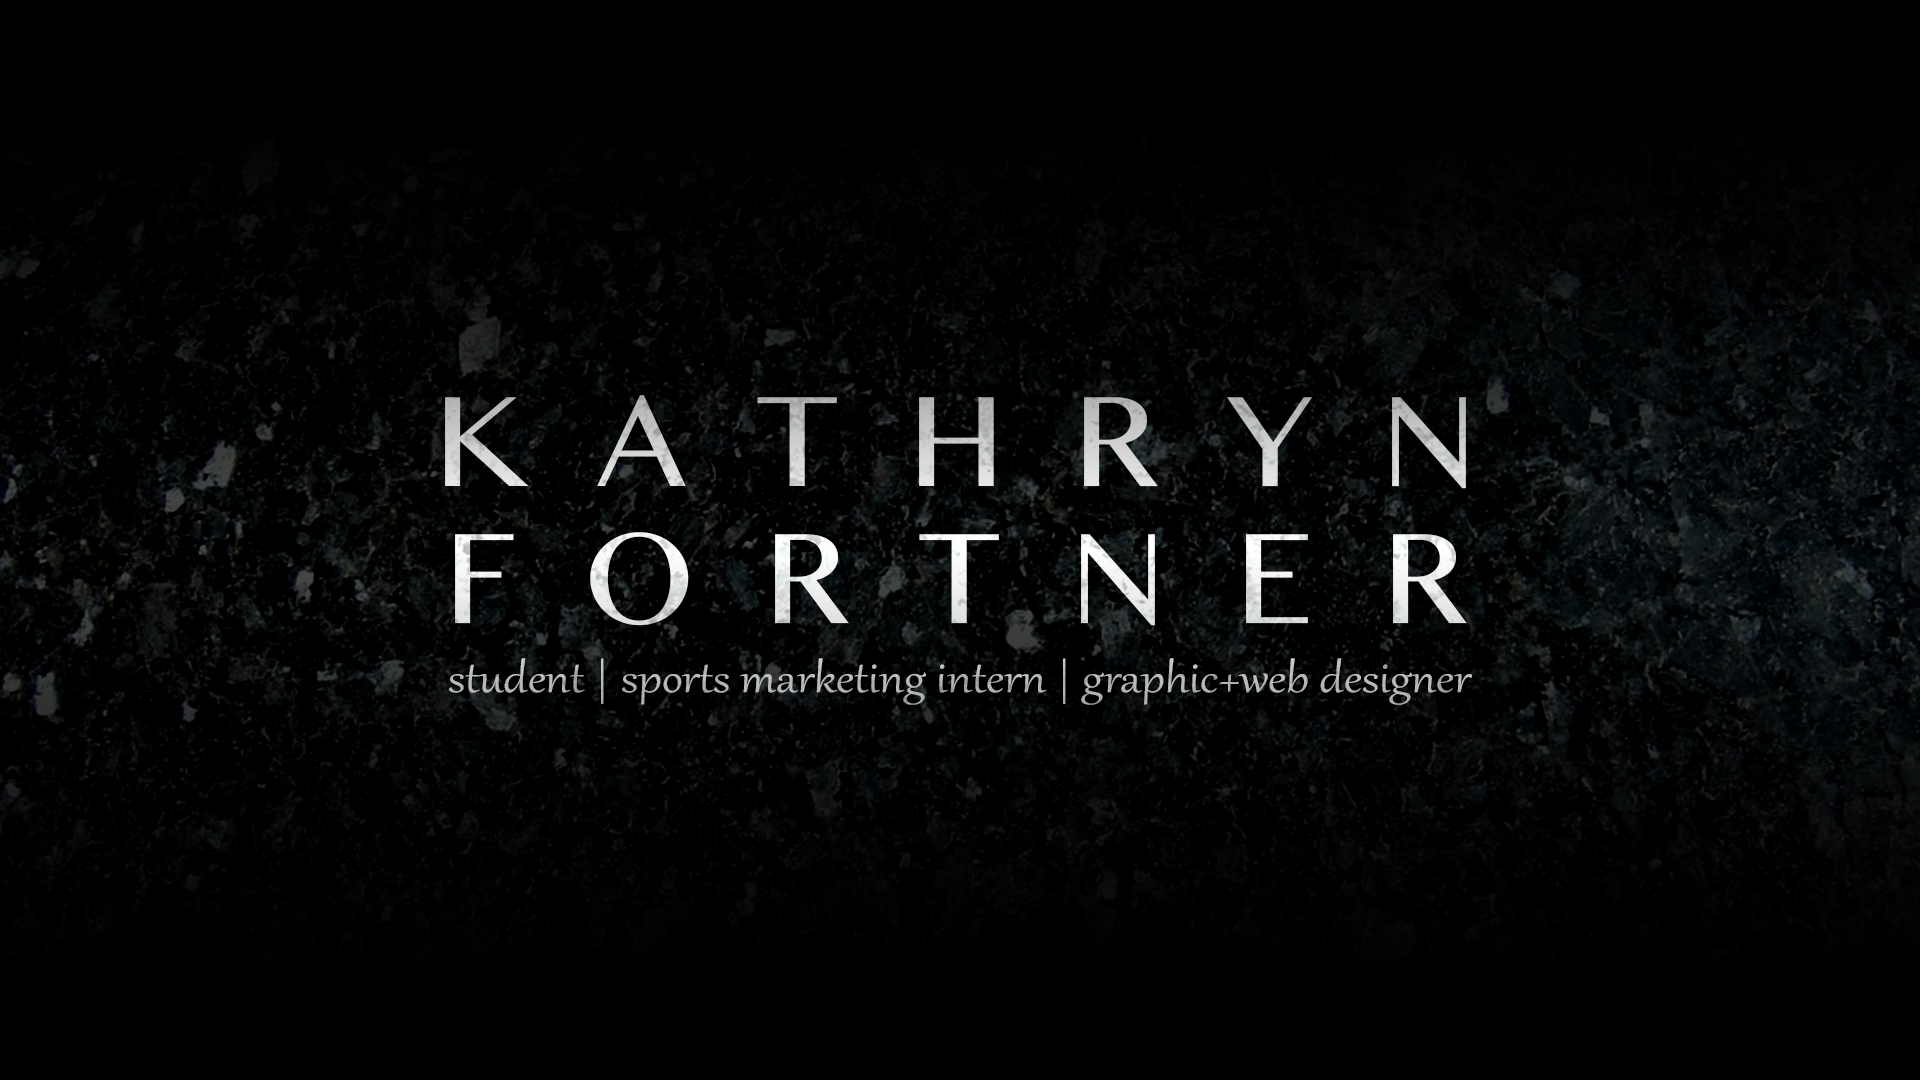
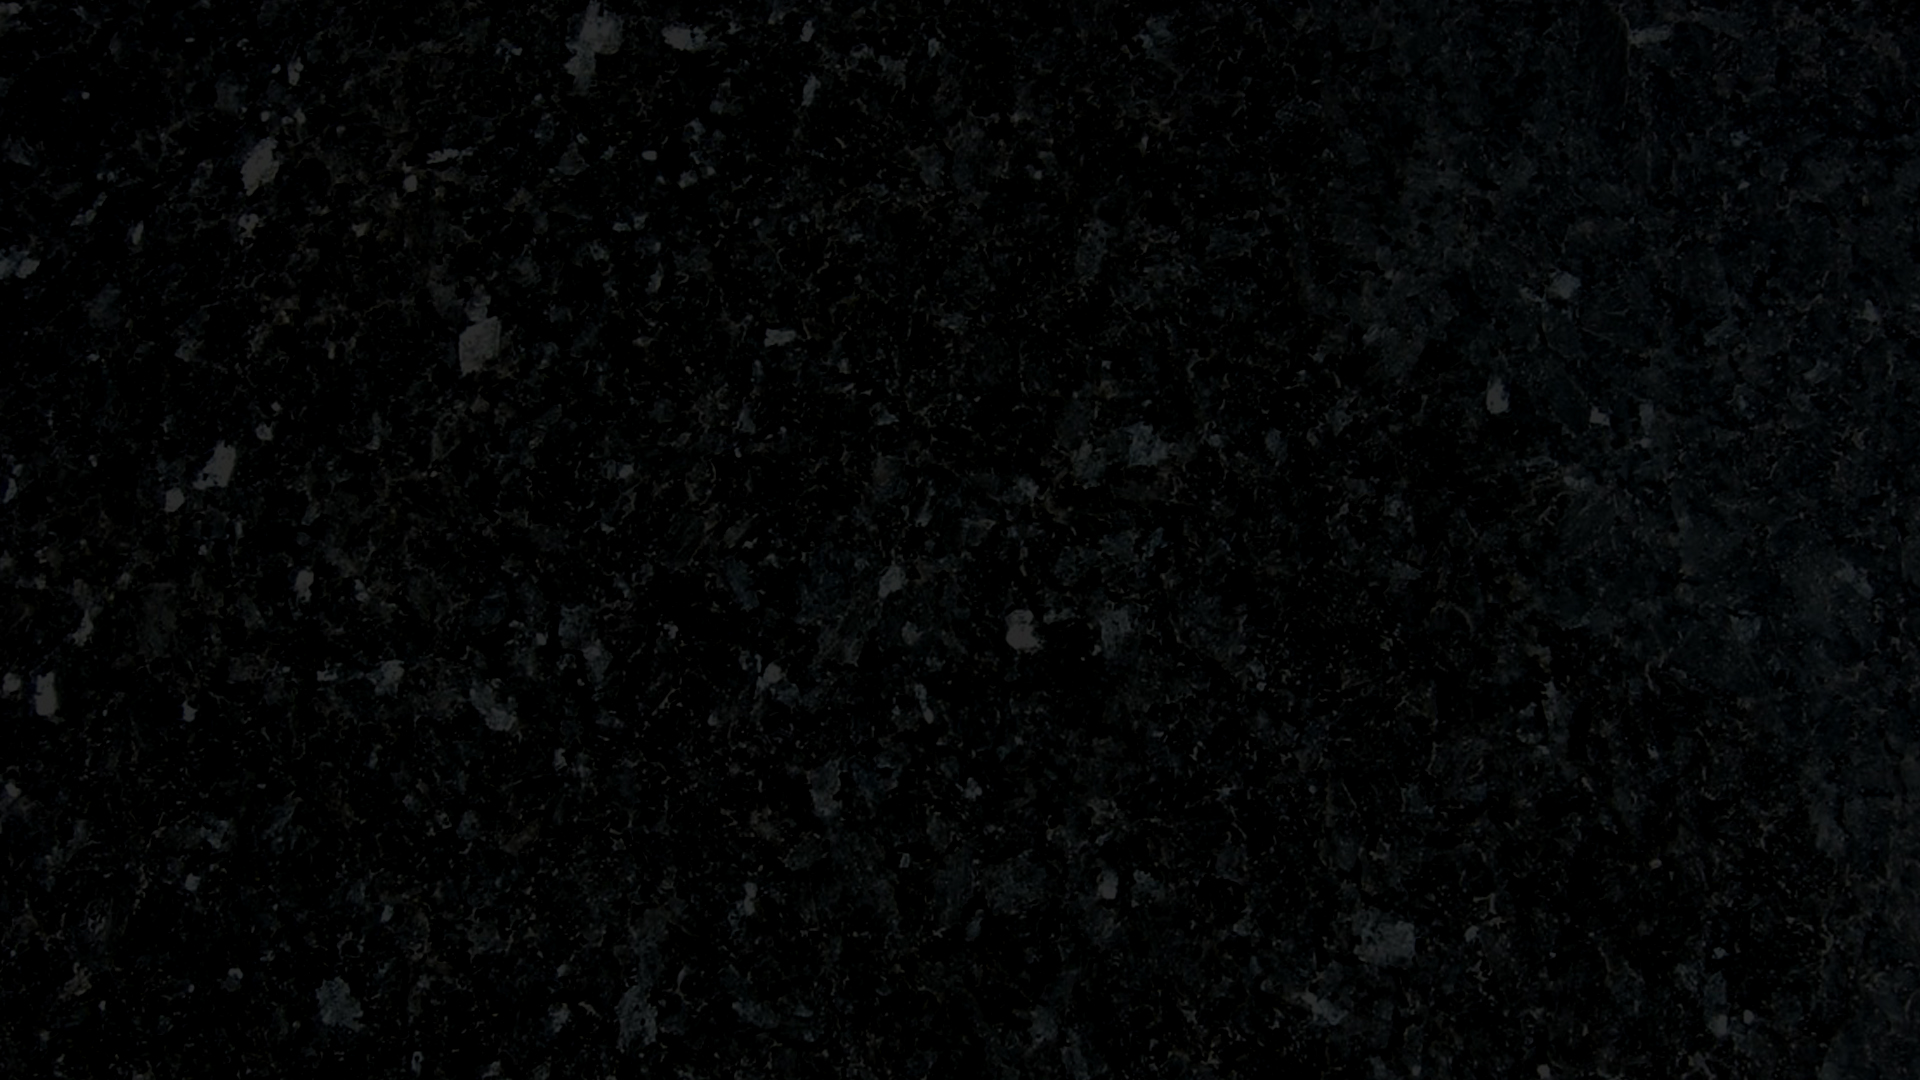
Website Update

diff --git a/index.html b/index.html
@@ -19,6 +19,7 @@
     <link href="css/grayscale.css" rel="stylesheet">
 
     <!-- Custom Fonts -->
+    <link href='https://fonts.googleapis.com/css?family=Montserrat:400,700' rel='stylesheet' type='text/css'>
     <link href="font-awesome/css/font-awesome.css" rel="stylesheet" type="text/css">
     <link href='http://fonts.googleapis.com/css?family=Lato:300|Kaushan+Script|Pacifico|Courgette|Lobster+Two|Great+Vibes|Merienda+One' rel='stylesheet' type='text/css'>
 
@@ -26,7 +27,7 @@
     <!-- WARNING: Respond.js doesn't work if you view the page via file:// -->
     <!--[if lt IE 9]>
         <script src="https://oss.maxcdn.com/libs/html5shiv/3.7.0/html5shiv.js"></script>
-        <script src="https://oss.maxcdn.com/libs/respond.js/1.4.2/respond.min.js"></script>
+        <script src="https://o<i class="fa fa-angle-double-down animated"></i>ss.maxcdn.com/libs/respond.js/1.4.2/respond.min.js"></script>
     <![endif]-->
 
 </head>
@@ -77,6 +78,8 @@
                         <h1 class="brand-heading"></h1>
                         <p class="intro-text"></p>
                         <a href="#about" class="btn btn-circle page-scroll">
+                        	<h1>Kathryn<br>Fortner</h1>
+                            <h4>Student \ Markeing Intern \ Graphic+Web Designer</h4>
                             <i class="fa fa-angle-double-down animated"></i>
                         </a>
                     </div>
@@ -117,7 +120,7 @@
                 <h2>Contact Me</h2>
                 <p>Got questions? I've got answers!</p>
                 <p><i class="fa fa-envelope"></i><a href="mailto:kathryn.fortner@gmail.com"> kathryn.fortner@gmail.com</a>
-                <p><i class="fa fa-phone"></i><a href="mailto:kathryn.fortner@gmail.com">  971.998.6188</a>
+                <p><i class="fa fa-phone"></i><a href="phoneto:kathryn.fortner@gmail.com">  971.998.6188</a>
                 </p>
                 <ul class="list-inline banner-social-buttons">
                     <li>

diff --git a/css/grayscale.css b/css/grayscale.css
@@ -7,7 +7,6 @@
 body {
     width: 100%;
     height: 100%;
-    font-family:'Lato', sans-serif;
 	font-weight: 200;
     color: #000;
     background-color: #FFF;
@@ -18,10 +17,35 @@ html {
     height: 100%;
 }
 
-h1,
+
+h1 {
+	font-family: 'Montserrat', sans-serif;
+    left: 0;
+    line-height: 100px;
+	opacity: 0.8;
+    margin: auto;
+    margin-top: -100px;
+    position: absolute;
+    top: 50%;
+    width: 100%;
+	font-size: 100px
+}
+
+h4 {
+	font-family: 'Lato', sans-serif;
+    left: 0;
+    line-height: 50px;
+	opacity: 0.8;
+    margin: auto;
+    margin-top: -300px;
+    position: absolute;
+    top: 107%;
+    width: 100%;
+	font-size: 24px
+}
+
 h2,
 h3,
-h4,
 h5,
 h6 {
     margin: 0 0 35px;
@@ -193,7 +217,8 @@ a:focus {
 .btn-circle {
     width: 70px;
     height: 70px;
-    margin-top: 85%;
+    margin-top: 80%;
+	margin-bottom: 10%;
     padding: 7px 16px;
     border: 2px solid #fff;
     border-radius: 100%!important;
